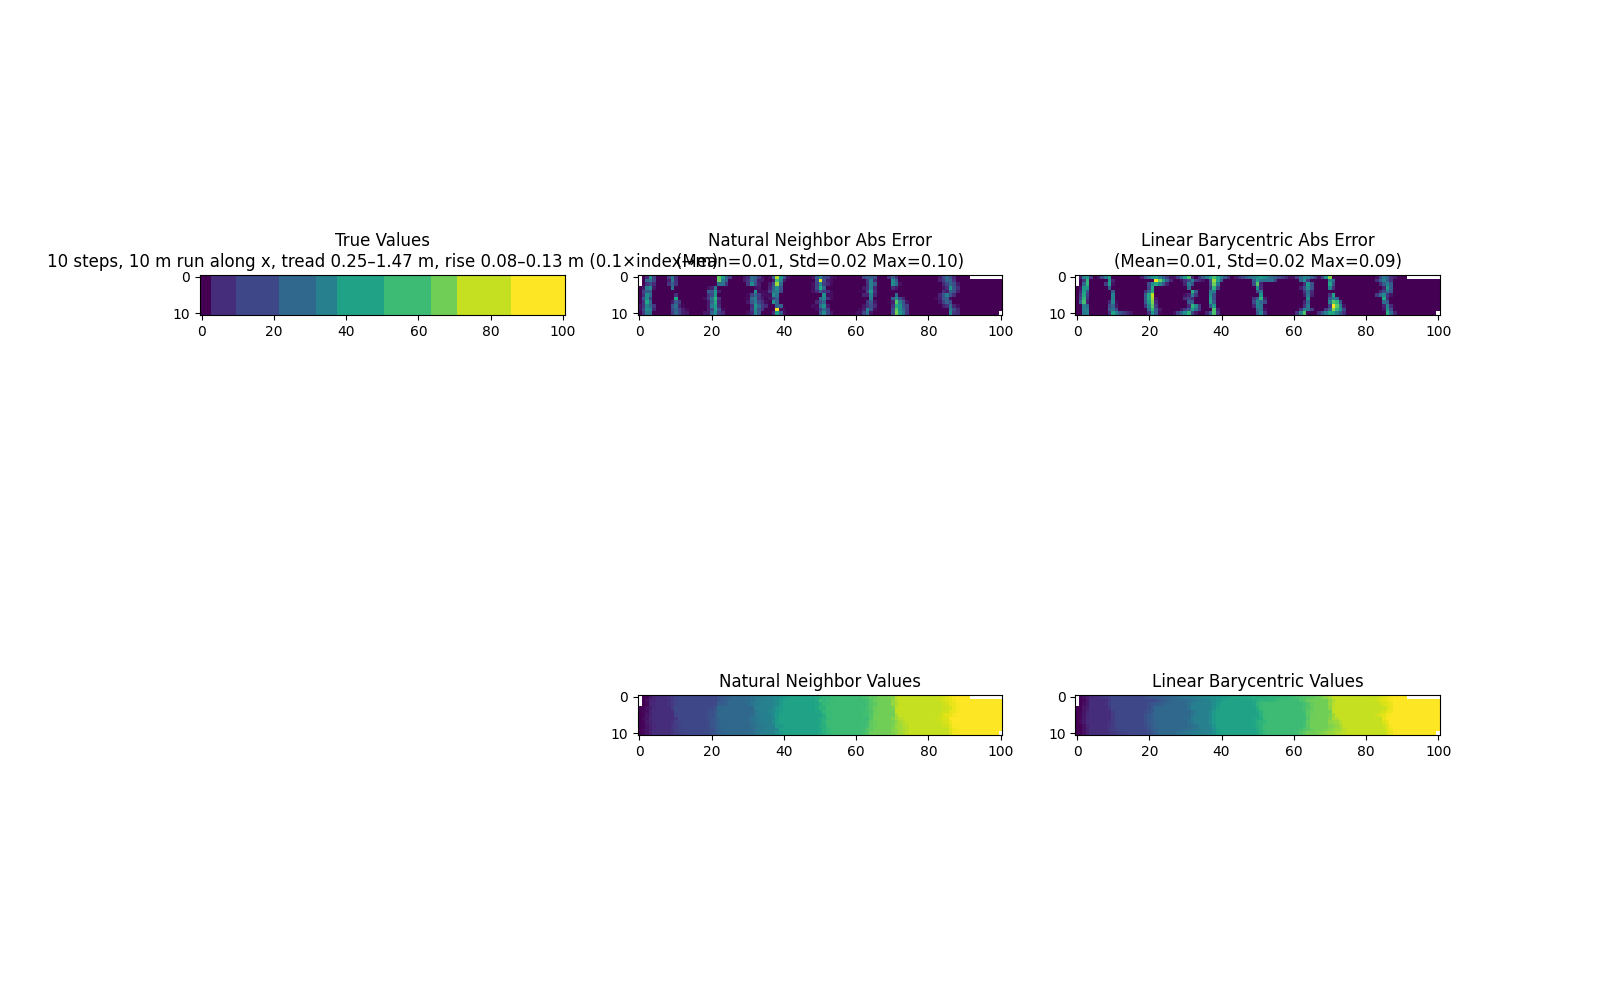
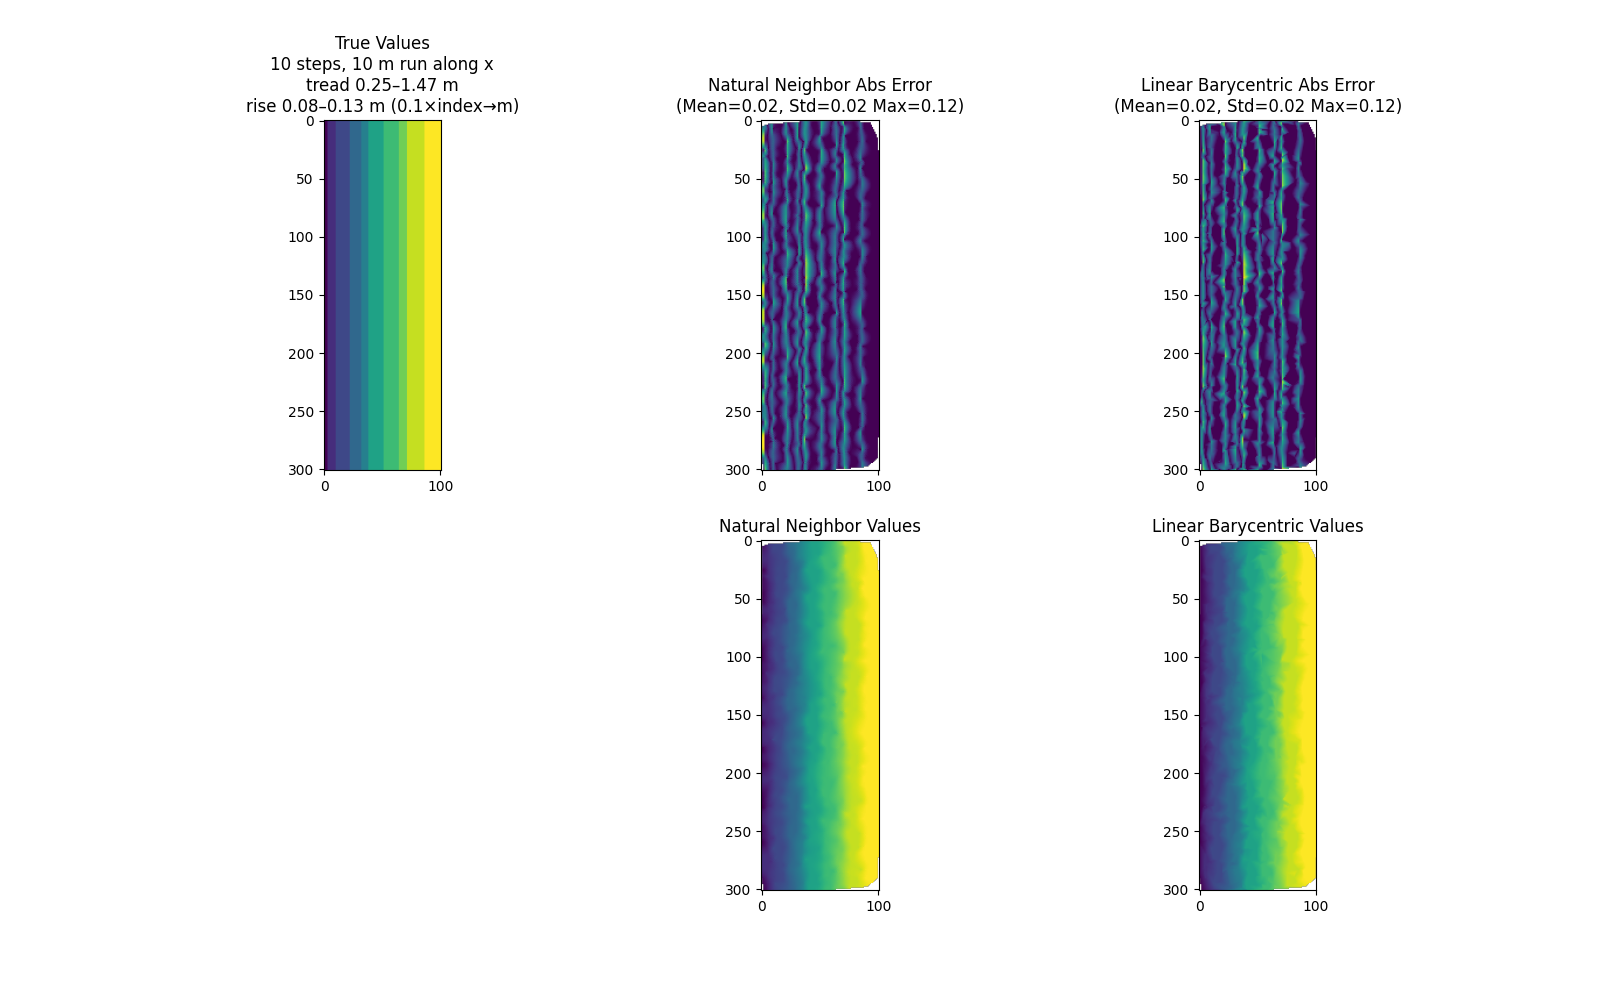
Tweaking demo plot for staircase example

Changed region(s): [[0.0312, 0.031, 0.625, 0.899], [0.6562, 0.062, 0.9062, 0.496], [0.6562, 0.527, 0.9062, 0.899]]

diff --git a/demo/demo.py b/demo/demo.py
@@ -141,10 +141,11 @@ if __name__ == "__main__":
     )
 
     # Physical staircase: tread widths in [0.5, 3] m (relative), scaled to run_length_m
-    # along +x; variable riser heights (meters). Grid: 0.1 m per index; y,z span 1 m.
+    # along +x; variable riser heights (meters). Grid: 0.1 m per index; y=30 m, z=1 m.
     cell_m = 0.1
     run_length_m = 10.0
-    lateral_width_m = 1.0
+    y_extent_m = 30.0
+    z_extent_m = 1.0
     rng_stair = np.random.default_rng(101)
     tread_widths_m = 0.5 + (3.0 - 0.5) * rng_stair.random(10)
     tread_widths_m[0] = 0.5
@@ -153,9 +154,9 @@ if __name__ == "__main__":
     rise_heights_m = np.array([0.12, 0.08, 0.11, 0.09, 0.13, 0.10, 0.09, 0.12, 0.08, 0.11], dtype=np.float64)
     total_run_m = float(np.sum(tread_widths_m))
     xmax = int(np.ceil(total_run_m / cell_m)) + 1
-    ymax = int(np.ceil(lateral_width_m / cell_m)) + 1
-    zmax = ymax
-    stair_label = "10 steps, {:.0f} m run along x, tread {:.2f}–{:.2f} m, rise {:.2f}–{:.2f} m " "(0.1×index→m)".format(
+    ymax = int(np.ceil(y_extent_m / cell_m)) + 1
+    zmax = int(np.ceil(z_extent_m / cell_m)) + 1
+    stair_label = "10 steps, {:.0f} m run along x\ntread {:.2f}–{:.2f} m\nrise {:.2f}–{:.2f} m " "(0.1×index→m)".format(
         run_length_m,
         float(np.min(tread_widths_m)),
         float(np.max(tread_widths_m)),
@@ -170,7 +171,7 @@ if __name__ == "__main__":
         ymax=ymax,
         zmax=zmax,
         z_slice=zmax // 2,
-        num_known_points=800,
+        num_known_points=1500,
         # imshow uses dim0=vertical, dim1=horizontal; without transpose, long x-run was vertical.
         transpose_slice=True,
     )
